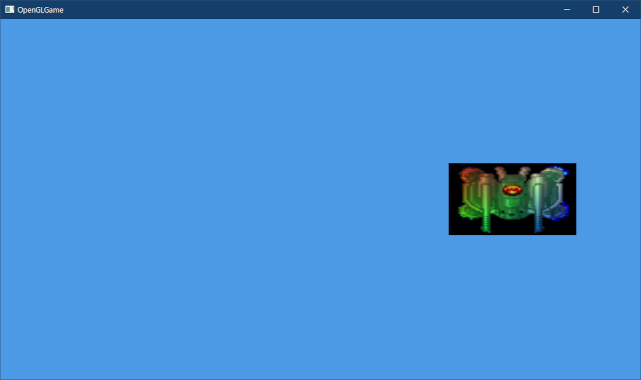
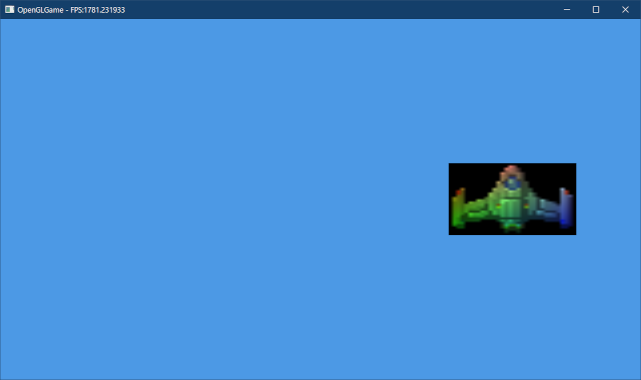
最初に表示する画像の範囲を自機に変更
課題で自機に変えているのを忘れて、第03回のスクショを敵中型機で作ってしまった。
ので、修正する枚数が少ない、第02回のスクショをやりなおした。

Changed region(s): [[0.6864, 0.4342, 0.9048, 0.6079], [0.0936, 0.0, 0.1872, 0.0579]]

diff --git a/doc/OpenGL3D_2022_02.md b/doc/OpenGL3D_2022_02.md
@@ -983,10 +983,10 @@ vec4 texture(サンプラ変数, テクスチャ座標);
 -  const float vertexData[][3] = {
 +  const Vertex vertexData[] = {
 -    { 0.4f,-0.2f, 0}, { 0.8f,-0.2f, 0}, { 0.8f, 0.2f, 0}, { 0.4f, 0.2f, 0},
-+    { 0.4f,-0.2f, 0, 0.0f,   0.125f},
-+    { 0.8f,-0.2f, 0, 0.125f, 0.125f},
-+    { 0.8f, 0.2f, 0, 0.125f, 0.0f},
-+    { 0.4f, 0.2f, 0, 0.0f,   0.0f},
++    { 0.4f,-0.2f, 0, 0.1875f, 1.0000f},
++    { 0.8f,-0.2f, 0, 0.2500f, 1.0000f},
++    { 0.8f, 0.2f, 0, 0.2500f, 0.9375f},
++    { 0.4f, 0.2f, 0, 0.1875f, 0.9375f},
    };
    GLuint vbo;
    glCreateBuffers(1, &vbo);
